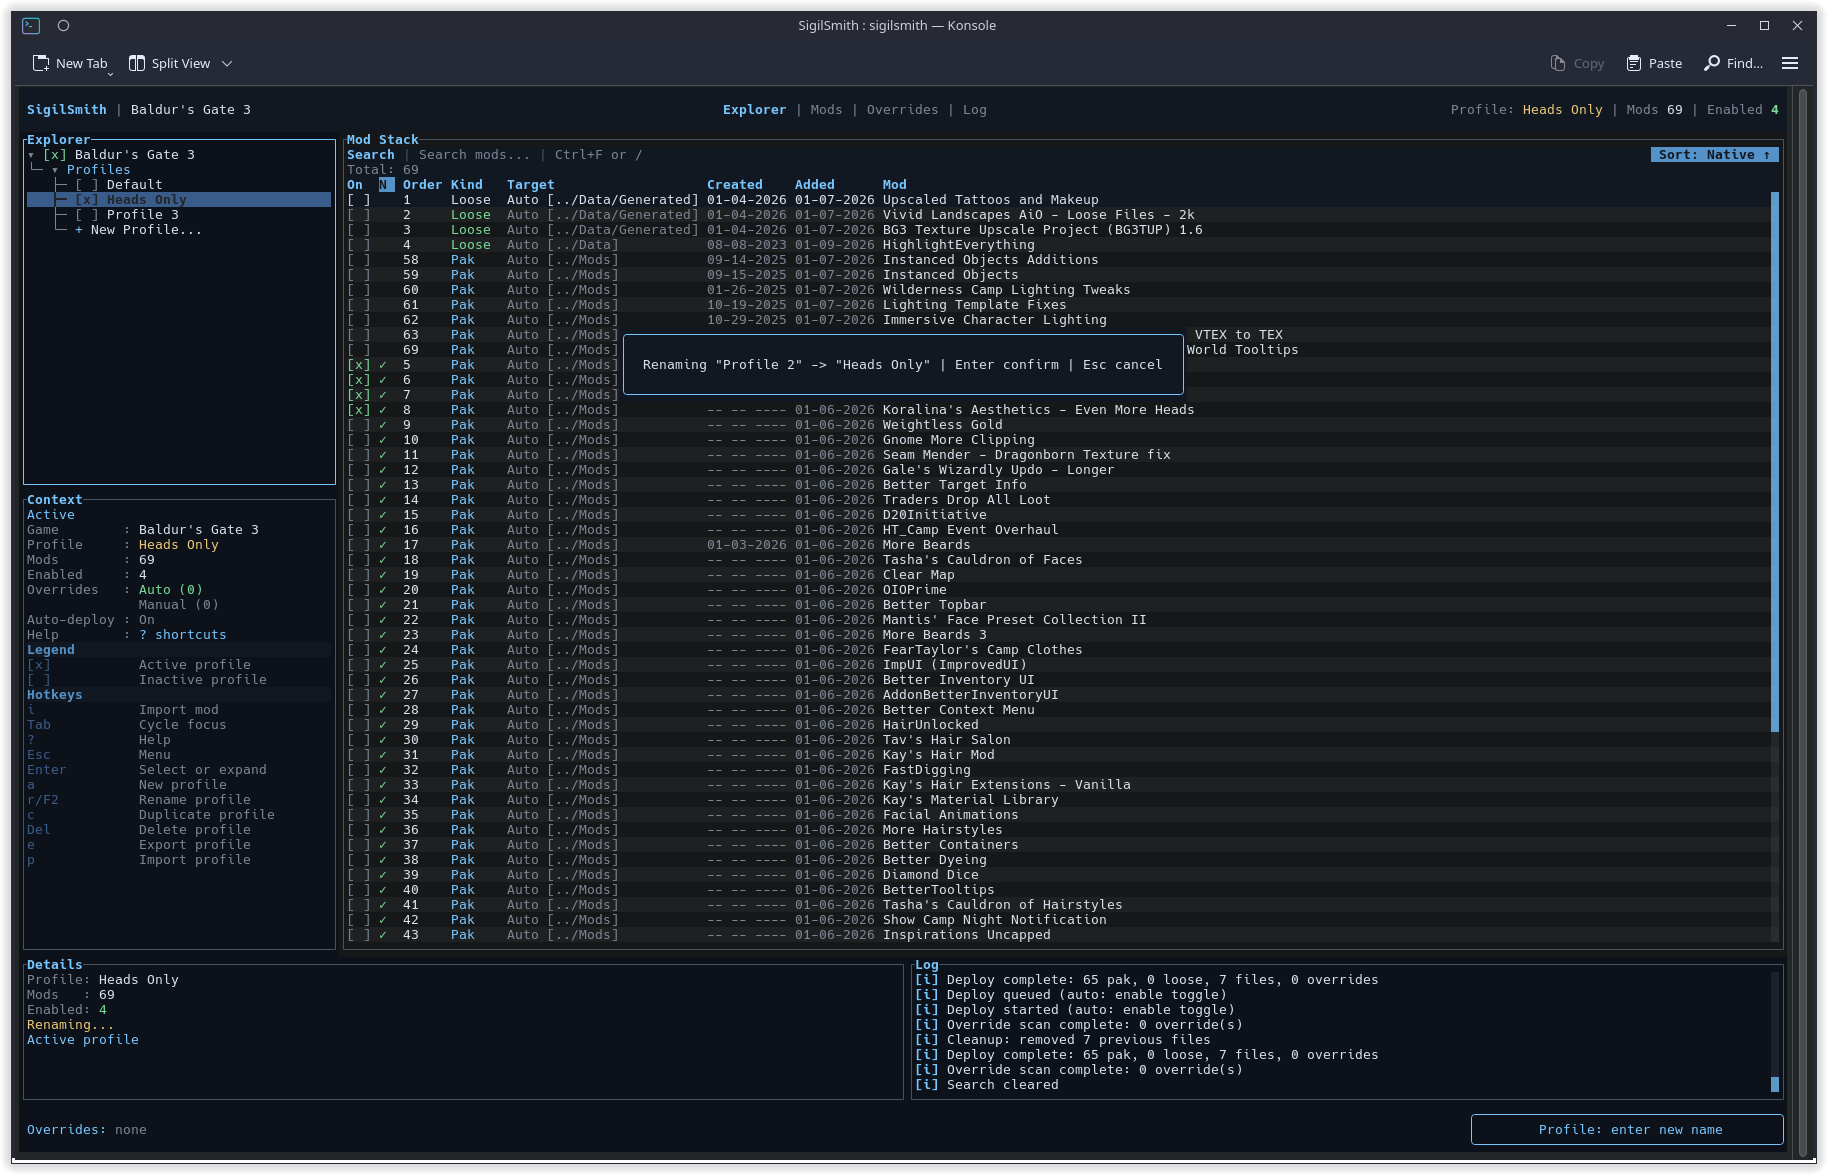
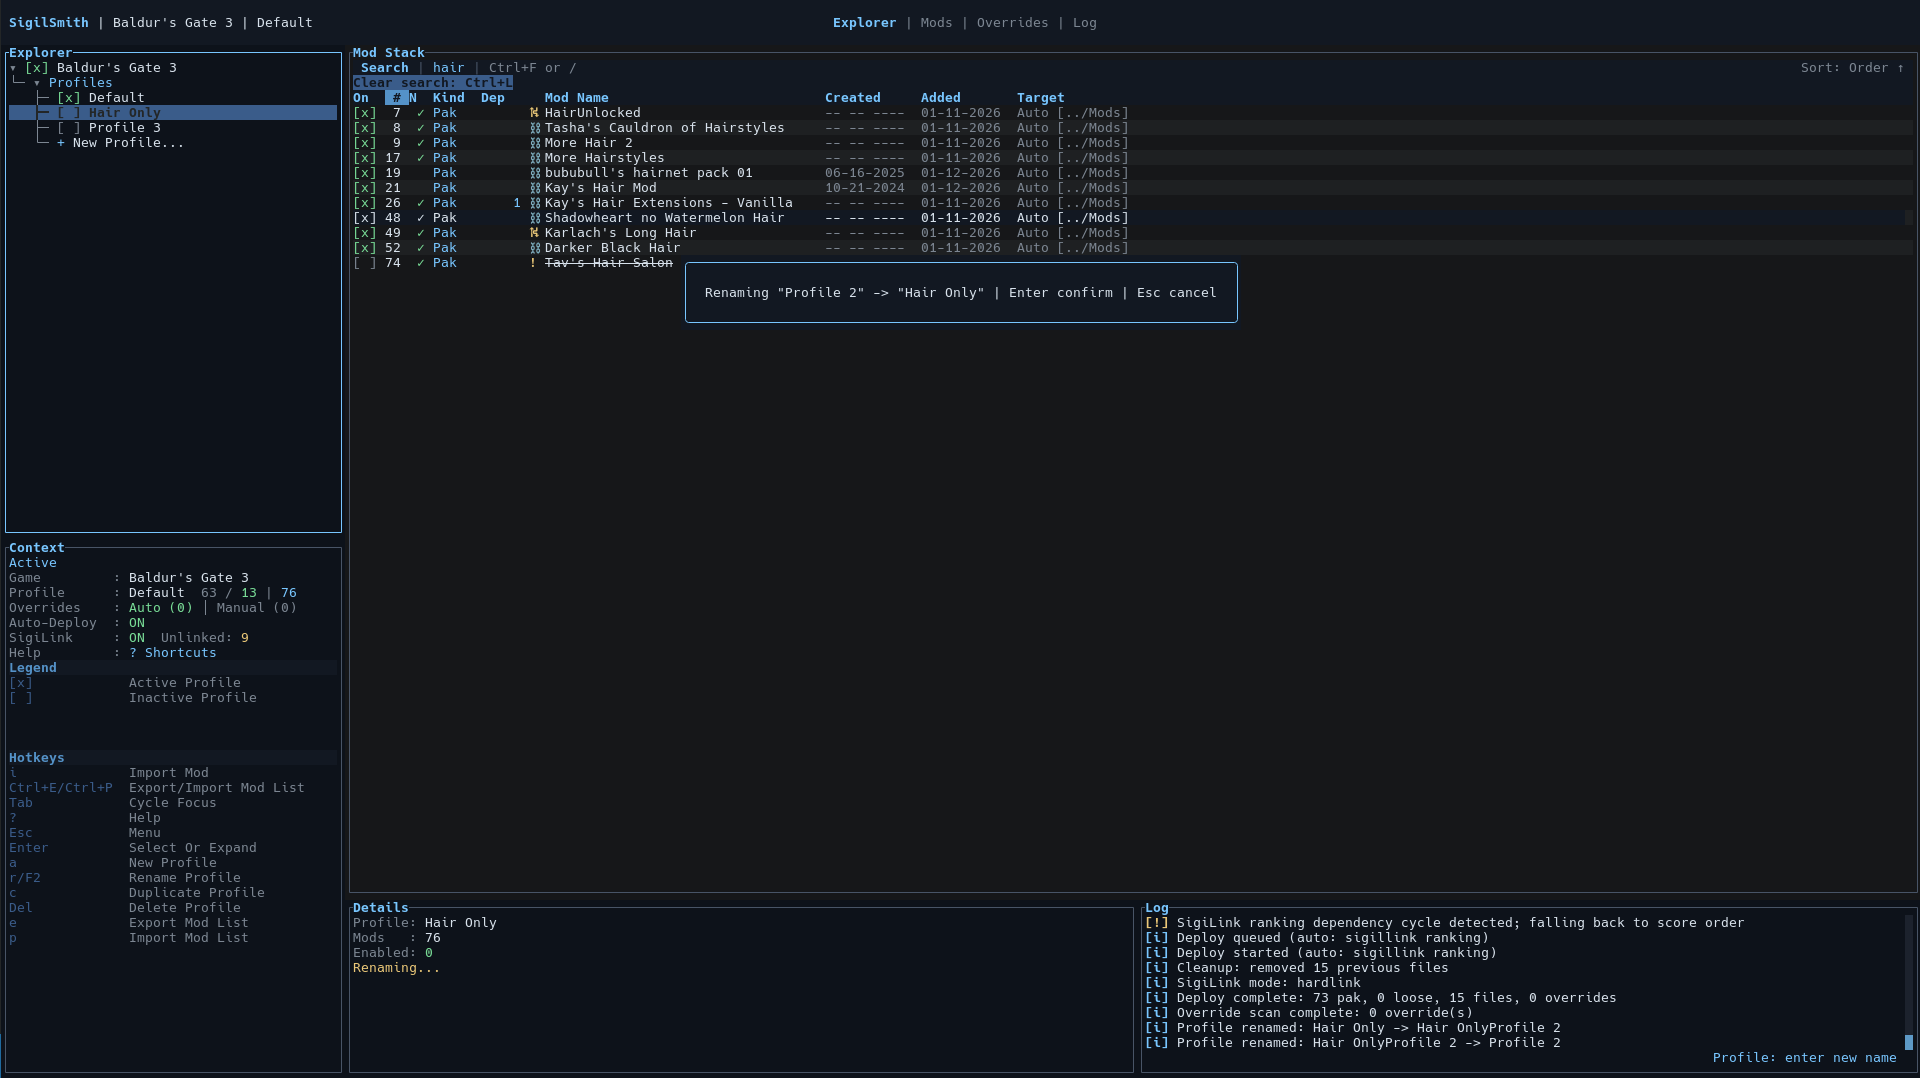
Fix reset-all pins hotkey

Changed region(s): [[0.0, 0.0, 1.0, 1.0]]

diff --git a/src/ui.rs b/src/ui.rs
@@ -1295,12 +1295,15 @@ fn handle_mods_mode(app: &mut App, key: KeyEvent) -> Result<()> {
         {
             app.enter_mod_filter();
         }
-        (KeyCode::Char('R') | KeyCode::Char('r'), mods)
+        (KeyCode::Char('R'), mods) if mods.contains(KeyModifiers::CONTROL) => {
+            app.prompt_clear_sigillink_pins();
+        }
+        (KeyCode::Char('r'), mods)
             if mods.contains(KeyModifiers::CONTROL) && mods.contains(KeyModifiers::SHIFT) =>
         {
             app.prompt_clear_sigillink_pins();
         }
-        (KeyCode::Char('R') | KeyCode::Char('r'), mods) if mods.contains(KeyModifiers::CONTROL) => {
+        (KeyCode::Char('r'), mods) if mods.contains(KeyModifiers::CONTROL) => {
             app.restore_sigillink_rank_for_selected();
         }
         (KeyCode::Char('/'), _) => app.enter_mod_filter(),
@@ -7338,7 +7341,7 @@ fn row_for_entry(
 
 fn sigillink_link_cell(app: &App, mod_id: &str, theme: &Theme) -> Cell<'static> {
     if app.sigillink_missing_pak(mod_id) {
-        return Cell::from("!".to_string()).style(Style::default().fg(theme.warning));
+        return Cell::from("👻".to_string()).style(Style::default().fg(theme.warning));
     }
     if !app.sigillink_ranking_enabled() {
         return Cell::from(" ".to_string()).style(Style::default().fg(theme.muted));
@@ -8484,7 +8487,7 @@ fn legend_rows_for_focus(focus: Focus) -> Vec<LegendRow> {
                 action: "Manual Pin".to_string(),
             });
             legend.push(LegendRow {
-                key: "!".to_string(),
+                key: "👻".to_string(),
                 action: "Missing Mod File".to_string(),
             });
         }

diff --git a/README.md b/README.md
@@ -12,14 +12,14 @@ Multi-game support is coming next via an open adapter template (BG3-first today,
 
 ![Overview](docs/01-hero-overview.png)
 ![Profiles](docs/02-explorer-profiles.png)
-![Search](docs/02.5-search-names.png)
-![Sort](docs/02.8_sort_by_name.png)
-![Overrides](docs/03-overrides-mode.png)
-![Smart Ranking](docs/04-smart-ranking.png)
-![Settings](docs/05-settings-menu.png)
-![Mod List Preview](docs/06-modlist-preview.png)
-![Export Menu](docs/06-export-menu.png)
-![Directory Select](docs/07_directory_select.png)
+![Search](docs/03-search-names.png)
+![Sort](docs/04-sort-name.png)
+![Smart Ranking](docs/05-smart-ranking.png)
+![Overrides](docs/06overrides-mode.png)
+![Settings](docs/07-settings-menu.png)
+![Directory Select](docs/08_directory_select.png)
+![Export Mod List](docs/09-export-mod-list.png)
+![Help](docs/10-question-menu.png)
 
 ## Highlights
 
